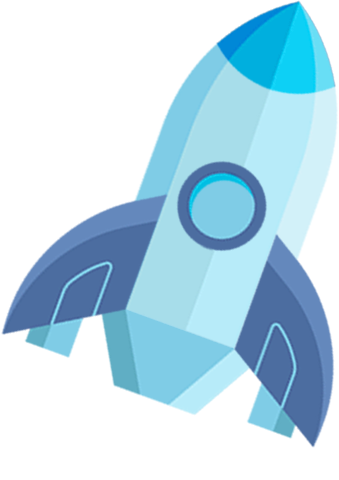
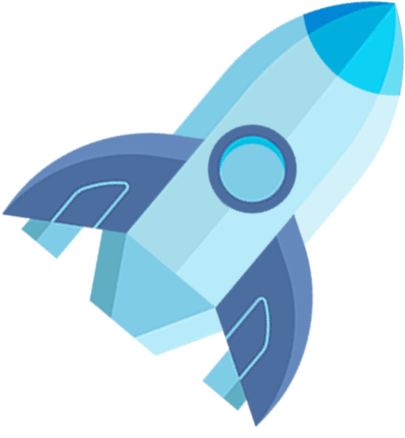
Add files via upload
moving plane with animation

diff --git a/game.py b/game.py
@@ -22,12 +22,13 @@ from pygame.locals import (
     K_d,
 
 )
-
+#GLOBAL DEFINES
 TEXTCOLOR = (255, 255, 255)
 BACKGROUND_COLOR = (135, 206, 250)
 COLLIDE_ENEMY_POINTS = 10  # losing points when colliding with an enemy
 COLLISION_DELTA = 10  # amount of frames to allow player to not lose points since last collision with ground
 GROUND_PENALTY = 10
+NUM_OF_PLAYER_IMGS = 10
 
 def drawText(text, font, surface, x, y):
     textobj = font.render(text, 1, TEXTCOLOR)
@@ -53,10 +54,9 @@ allowaddenemy = True
 # pygame.display.set_mode((0,0),pygame.FULLSCREEN)
 # Define constants for the screen width and height
 info = pygame.display.Info()
-print(info)
+#print(info)
 SCREEN_WIDTH = info.current_w
 SCREEN_HEIGHT = info.current_h
-
 
 # Define the Player object extending pygame.sprite.Sprite
 # Instead of a surface, we use an image for a better looking sprite
@@ -65,38 +65,39 @@ class Player(pygame.sprite.Sprite):
         self.ground_counter = COLLISION_DELTA
         self.score = 0
         super(Player, self).__init__()
+        self.state = 0
         if not player2:
-            self.surf = pygame.image.load('image/car1.png').convert()
+            self.surf = player1_off_arr[0] # initial state
         if player2:
             self.surf = pygame.image.load('image/car21.png').convert()
         self.surf.set_colorkey((255, 255, 255), RLEACCEL)
         self.rect = self.surf.get_rect()
-        print(self.rect.size)
         self.rect.y = SCREEN_HEIGHT / 2  # for now start from middle
-        self.health=100
-    def draw_health(self, surf):
-        if(self.health!=0):
-            health_rect = pygame.Rect(0, 0, 23, 7)
-        else:
-            health_rect = pygame.Rect(0, 0, 0, 0)
-        health_rect.midbottom = self.rect.centerx, (self.rect.bottom)
-        max_health = 100
-        draw_health_bar(surf, health_rect.topleft, health_rect.size, 
-                (0, 0, 0), (255, 0, 0), (0, 255, 0), self.health/max_health) 
+
     # Move the sprite based on keypresses
     def update(self, pressed_keys, player2=False):
         if not player2:
             if pressed_keys[K_UP]:
                 self.rect.move_ip(0, -5)
+                #self.state = max(0, self.state - 1)
+                self.state = max(0, self.state - 1)
                 # move_up_sound.play()
             else:
                 # if pressed_keys[K_DOWN]:
                 self.rect.move_ip(0, 5)
+                #self.state = max(9, self.state + 1)
+                self.state = min(self.state + 1, NUM_OF_PLAYER_IMGS - 1)
+                print('state is ' + str(self.state))
                 # move_down_sound.play()
             if pressed_keys[K_LEFT]:
                 self.rect.move_ip(-5, 0)
             if pressed_keys[K_RIGHT]:
                 self.rect.move_ip(5, 0)
+            # update the player surface and rectangle
+            self.surf = player1_off_arr[self.state]
+
+
+
         if player2:
             if pressed_keys[K_w]:
                 self.rect.move_ip(0, -5)
@@ -116,8 +117,8 @@ class Player(pygame.sprite.Sprite):
             self.rect.right = SCREEN_WIDTH
         if self.rect.top <= 0:
             self.rect.top = 0
-        elif self.rect.bottom >= SCREEN_HEIGHT - groundheight+10:
-            self.rect.bottom = SCREEN_HEIGHT - groundheight+10
+        elif self.rect.bottom >= SCREEN_HEIGHT:
+            self.rect.bottom = SCREEN_HEIGHT
 
 
 # Define the enemy object extending pygame.sprite.Sprite
@@ -217,13 +218,6 @@ class Cloud(pygame.sprite.Sprite):
             self.kill()
 
 
-def draw_health_bar(surf, pos, size, borderC, backC, healthC, progress):
-    pygame.draw.rect(surf, backC, (*pos, *size))
-    pygame.draw.rect(surf, borderC, (*pos, *size), 1)
-    innerPos  = (pos[0]+1, pos[1]+1)
-    innerSize = ((size[0]-2) * progress, size[1]-2)
-    rect = (round(innerPos[0]), round(innerPos[1]), round(innerSize[0]), round(innerSize[1]))
-    pygame.draw.rect(surf, healthC, rect)
 # Setup for sounds, defaults are good
 pygame.mixer.init()
 
@@ -233,6 +227,15 @@ clock = pygame.time.Clock()
 # Create the screen object
 # The size is determined by the constant SCREEN_WIDTH and SCREEN_HEIGHT
 screen = pygame.display.set_mode((SCREEN_WIDTH, SCREEN_HEIGHT))
+
+
+#images
+player1_off_arr = []
+for i in range(NUM_OF_PLAYER_IMGS):
+    print(i)
+    curr_player_off_img = pygame.transform.scale(pygame.image.load('image/player1_off' + str(i) + '.png'), (50, 100)).convert()
+    player1_off_arr.append(curr_player_off_img)
+    #print(player1_off_arr)
 
 # Create custom events for adding a new enemy and cloud
 ADDENEMY = pygame.USEREVENT + 1
@@ -245,11 +248,7 @@ pygame.time.set_timer(ADDBITCOIN, 1000)
 # create needed items
 
 player = Player()
-player1_group = pygame.sprite.Group()
-player1_group.add(player)
 player2 = Player(player2=True)
-player2_group = pygame.sprite.Group()
-player2_group.add(player2)
 ground = Ground()
 
 # Create groups to hold enemy sprites, cloud sprites, and all sprites
@@ -292,11 +291,9 @@ sysfont = pygame.font.get_default_font()
 font = font = pygame.font.SysFont(None, 48)
 drawText('Score: ', font, screen, (10), (10))
 pygame.display.update()
-progress = 1
-maxwidth= 20
+
 while running:
     # Look at every event in the queue
-    # DrawBar(screen,(500,500),(200,20),(0,0,0),(0,128,0),0.5)
     for event in pygame.event.get():
         # Did the user hit a key?
         if event.type == KEYDOWN:
@@ -331,8 +328,8 @@ while running:
 
     # Get the set of keys pressed and check for user input
     pressed_keys = pygame.key.get_pressed()
-    player1_group.update(pressed_keys)
-    player2_group.update(pressed_keys, player2=True)
+    player.update(pressed_keys)
+    player2.update(pressed_keys, player2=True)
     # Update the position of our enemies and clouds
     enemies.update()
     benefits.update()
@@ -349,24 +346,13 @@ while running:
         screen.blit(entity.surf, entity.rect)
     for entity in benefits:
         screen.blit(entity.surf, entity.rect)
-    for entity in player1_group:
-        screen.blit(entity.surf, entity.rect)
-    for entity in player2_group:
-        screen.blit(entity.surf, entity.rect)
-    for entity in ground_group:
-        screen.blit(entity.surf, entity.rect)
-    # screen.blit(player.surf, player.rect)
-    # screen.blit(player2.surf, player2.rect)
-    # screen.blit(ground.surf, ground.rect)
-    player.draw_health(screen)
-    player2.draw_health(screen)
+    screen.blit(player.surf, player.rect)
+    screen.blit(player2.surf, player2.rect)
+    screen.blit(ground.surf, ground.rect)
                         ##player 1 collision with enemy##
     if pygame.sprite.spritecollide(player, enemies, dokill=True) and not ignorecollision:
         # If so, remove the player
-        # player.score -= COLLIDE_ENEMY_POINTS
-        player.health-=10
-        if player.health <=0:
-                player.kill()
+        player.score -= COLLIDE_ENEMY_POINTS
 
         # Stop any moving sounds and play the collision sound
         # move_up_sound.stop()
@@ -376,24 +362,17 @@ while running:
         # running = False
 
 
-    if pygame.sprite.spritecollide (player, ground_group, dokill=False):
+    if pygame.sprite.spritecollide(player, ground_group, dokill=False):
         player.ground_counter += 1
         if player.ground_counter >= 10:
-            # player.score -= GROUND_PENALTY
+            player.score -= GROUND_PENALTY
             player.ground_counter = 0
-            player.health-=10
-            if player.health <=0:
-                player.kill()
 
 
             ##player 2 collision with enemy##
     if pygame.sprite.spritecollide(player2, enemies, dokill=True) and not ignorecollision:
         # If so, remove from the player counter
-            # player2.score -= COLLIDE_ENEMY_POINTS
-            player2.health-=10
-            if player2.health <=0:
-                player2.kill()
-
+            player2.score -= COLLIDE_ENEMY_POINTS
 
         # Stop any moving sounds and play the collision sound
         # move_up_sound.stop()
@@ -405,12 +384,8 @@ while running:
     if pygame.sprite.spritecollide(player2, ground_group, dokill=False):
         player2.ground_counter += 1
         if player2.ground_counter >= 10:
-            # player2.score -= GROUND_PENALTY
-            player2.health-=10
+            player2.score -= GROUND_PENALTY
             player2.ground_counter = 0
-            print(player2.health)
-            if player2.health <=0:
-                player2.kill()
 
     if benefits:
         for bit in pygame.sprite.spritecollide(player, benefits, dokill=True):
